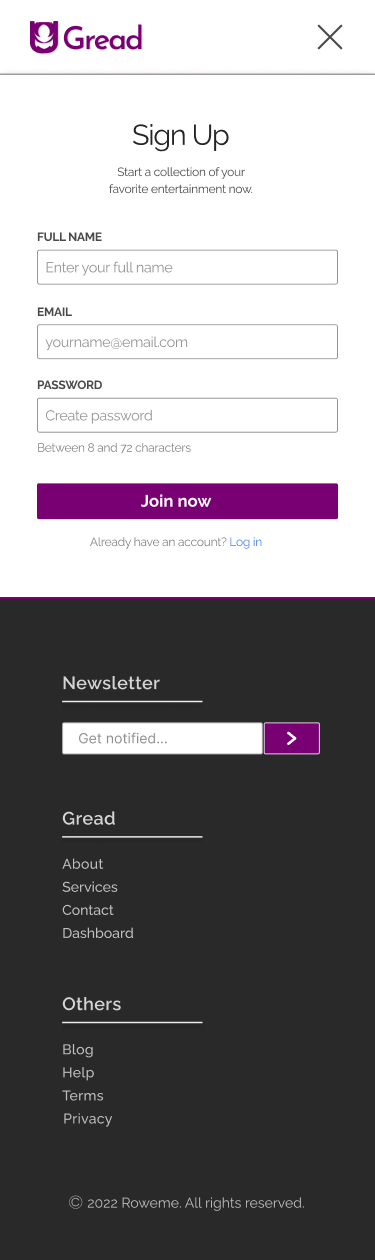
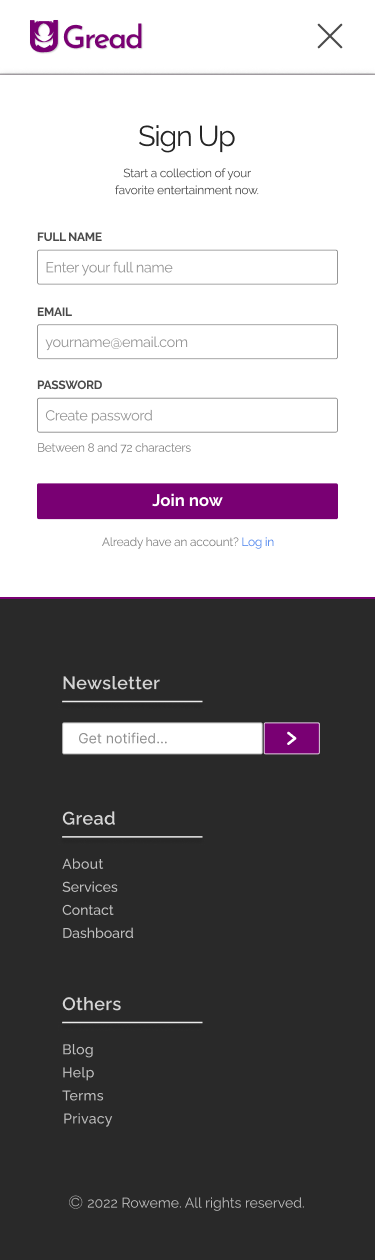
Mobile Sign up page rough UI

diff --git a/utilities/css/signup.css b/utilities/css/signup.css
@@ -1,0 +1,93 @@
+.main-container {
+    overflow-x: hidden;
+}
+/* Signup Form */
+.signup-container {
+    padding: 42px 35px 50px;
+}
+/* Text Box */
+.signup-text-box {
+    display: flex;
+    flex-direction: column;
+    align-items: center;
+    text-align: center;
+    margin-bottom: 18px;
+}
+.signup-heading {
+    font-size: 1.79rem;
+    font-weight: 400;
+    letter-spacing: -1.1px;
+    line-height: 135%;
+    margin-top: 0px;
+    margin-bottom: 8px;
+    color: #242424;
+}
+.signup-sub-heading {
+    width: 50%;
+    font-size: 0.75rem;
+    letter-spacing: -0.3px;
+    line-height: 140%;
+    padding: 1px 0px 2px;
+    margin-top: 0px;
+    color: var(--secondary);
+}
+/* Form */
+.form-container {
+    padding: 0px 2px;
+}
+.inpt-field-box {
+    display: flex;
+    flex-direction: column;
+    margin-bottom: 20px;
+}
+.inpt-label {
+    font-size: 0.75rem;
+    font-weight: 700;
+    letter-spacing: -0.3px;
+    text-transform: uppercase;
+    margin-bottom: 5.5px;
+    color: var(--secondary);
+}
+.inpt-field {
+    font-size: 0.895rem;
+    letter-spacing: -0.3px;
+    padding: 8px 7.5px 8.5px;
+    border: 0.8px solid #A3A3A3;
+    border-radius: 2.5px;
+    color: var(--secondary);
+}
+.pass-field {
+    margin-bottom: 7px;
+}
+.inpt-field::placeholder {
+    color: #A3A3A3;
+}
+.pass-length-info {
+    font-size: 0.75rem;
+    letter-spacing: -0.25px;
+    text-align: left;
+    margin-top: 0px;
+    margin-bottom: 10px;
+    color: #878787E6;
+}
+.join-btn {
+    width: 100%;
+    font-size: 1.045rem; 
+    font-weight: 600;
+    letter-spacing: 0.2px;
+    padding: 6px 0px 9px;
+    margin-top: 20px;
+    border: none;
+    border-radius: 2.5px;
+    color: #FFFFFF;
+    background-color: var(--primary);
+}
+.is-user {
+    font-size: 0.75rem;
+    font-weight: 400;
+    letter-spacing: -0.2px;
+    text-align: center;
+    margin-top: 15px;
+    margin-bottom: 0px;
+    color: #4a4a4ab3;
+}

diff --git a/utilities/css/media_query.css b/utilities/css/media_query.css
@@ -16,13 +16,21 @@ body {
     padding: 0;
     color: var(--secondary);
 }
-
+a {
+    text-decoration: none;
+    color: #2769E9;
+}
+a:hover {
+    text-decoration: underline;
+}
+@media all and (min-width: 300px) {
+    body {
+        position: relative;
+    }
+}
 @media all and (min-width: 425px) {
     :root {
         font-size: 16.5px;
-    }
-    body {
-        position: static;
     }
 }
 @media all and (min-width: 500px) {

diff --git a/signup.php b/signup.php
@@ -1,0 +1,65 @@
+<?php
+require_once "./utilities/php_snippets/header.php";
+require_once "./utilities/php_snippets/footer.php";
+session_start();
+
+?>
+<!DOCTYPE html>
+<html lang="en">
+
+<head>
+    <meta name="charset" content="utf-8">
+    <meta name="viewport" content="width=device-width, initial-scale=1.0">
+    <meta name="author" content="Roweme B. Santos">
+    <title>Sign up | Your library of entertainment</title>
+    <link rel="icon" href="./assets/logo/brand_logo.png">
+    <link rel="stylesheet" href="./utilities/css/component_style.css">
+    <link rel="stylesheet" href="./utilities/css/header.css">
+    <link rel="stylesheet" href="./utilities/css/footer.css">
+    <link rel="stylesheet" href="./utilities/css/media_query.css">
+    <link rel="stylesheet" href="./utilities/css/signup.css">
+    <link rel="preconnect" href="https://fonts.googleapis.com">
+    <link rel="preconnect" href="https://fonts.gstatic.com" crossorigin>
+    <link href="https://fonts.googleapis.com/css2?family=Raleway:wght@300;400;500;600;700&family=Roboto:wght@400;500&display=swap" rel="stylesheet">
+</head>
+
+<body>
+    <?php
+    // Header template
+    auth_header();
+    ?>
+    <main class="main-container">
+        <!-- Signup Form -->
+        <section class="signup-container">
+            <!-- Text Box -->
+            <div class="signup-text-box">
+                <h1 class="signup-heading">Sign Up</h1>
+                <p class="signup-sub-heading">Start a collection of your favorite entertainment now.</p>
+            </div>
+            <!-- Form -->
+            <form class="form-container" method="POST" enc>
+                <div class="inpt-field-box">
+                    <label class="inpt-label" for="full_name">Full Name</label>
+                    <input class="inpt-field" type="text" id="full_name" class="inpt_fname" name="usr_fname" required placeholder="Enter your full name">
+                </div>
+                <div class="inpt-field-box">
+                    <label class="inpt-label" for="email">Email</label>
+                    <input class="inpt-field" type="email" id="email" class="inpt_email" name="usr_email" required placeholder="yourname@email.com">
+                </div>
+                <div class="inpt-field-box pass-field">
+                    <label class="inpt-label" for="password">Password</label>
+                    <input class="inpt-field" type="password" id="password" class="inpt_password" required placeholder="Create password" minLength="8" maxLength="72">
+                </div>
+                <p class="pass-length-info">Between 8 and 72 characters</p>
+                <button class="join-btn" type="submit" name="join">Join now</button>
+            </form>
+            <p class="is-user">Already have an account? <a href="./login.php">Log in</a></p>
+        </section>
+    </main>
+    <?php
+    // Footer template
+    index_footer();
+    ?>
+</body>
+
+</html>

diff --git a/utilities/php_snippets/header.php b/utilities/php_snippets/header.php
@@ -108,10 +108,10 @@ function index_header($active_page = 'index')
             <!-- CTA -->
             <div class="header-cta-box">
               <div class="header-signup-box">
-                <a class="btn header-signup" href="./signup/signup.php">Sign up</a>
+                <a class="btn header-signup" href="./signup.php">Sign up</a>
               </div>
               <div class="header-login-box">
-                <a class="btn header-login" href="./login/login.php">Log in</a>
+                <a class="btn header-login" href="./login.php">Log in</a>
               </div>
             </div>
             <!-- Social Links -->
@@ -137,4 +137,27 @@ function index_header($active_page = 'index')
 function dashboard_header()
 {
   // Display this header template if logged in
+}
+
+function auth_header()
+{
+  // Header for logging and signup page
+  echo ('<header class="header-container">
+  <!-- Logo -->
+  <div class="logo-box">
+    <a href="./index.php">
+      <img class="logo" src="./assets/logo/logo512.png" alt="Gread Logo">
+    </a>
+  </div>
+  <!-- Navigation -->
+  <div class="navigation-box">
+    <!-- Close Menu -->
+    <a href="./index.php">
+      <svg class="auth-close-icon nav-icon" width="30" height="30" viewBox="0 0 30 30" fill="none" xmlns="http://www.w3.org/2000/svg">
+        <path d="M26.2499 26.2499L3.75 3.75" stroke="#4A4A4A" stroke-width="2" stroke-linecap="round" stroke-linejoin="round"/>
+        <path d="M26.2501 3.75L3.75 26.2501" stroke="#4A4A4A" stroke-width="2" stroke-linecap="round" stroke-linejoin="round"/>
+      </svg>
+    </a>
+  </div>
+  </header>');
 }

diff --git a/about.php b/about.php
@@ -22,6 +22,7 @@ session_start();
 
 <body>
     <?php
+    // Header
     // Check if user is logged in
     if (isset($_SESSION['user'])) {
         // call logged_header()
@@ -30,11 +31,14 @@ session_start();
     }
     ?>
     <main class="main-container">
+        <!-- About -->
         <section class="about-container">
+            <!-- Heading -->
             <div class="about-heading-box">
                 <h1 class="main-heading">About</h1>
                 <hr class="about-divider">
             </div>
+            <!-- About Content -->
             <div class="about-text-box">
                 <p class="about-text">
                     <span class="gread-word">Gread</span> is an online application that allows you to save all of your favorite entertainments information. You don't need to worry about remembering their basic information.

diff --git a/index.php b/index.php
@@ -40,7 +40,7 @@ session_start();
       <!-- CTA -->
       <div class="cta-box">
         <span class="get-started-box">
-          <a class="btn primary-btn" href="./signup/signup.php">Get Started</a>
+          <a class="btn primary-btn" href="./signup.php">Get Started</a>
           <svg class="cta-btn-icon" width="34" height="34" viewBox="0 0 34 34" fill="none" xmlns="http://www.w3.org/2000/svg">
             <path d="M21.9584 16.0084L14.025 7.93336C13.4584 7.3667 12.6084 7.3667 12.0417 7.93336C11.475 8.50003 11.475 9.35003 12.0417 9.9167L18.9834 16.8584L12.0417 23.8C11.7584 24.0834 11.6167 24.3667 11.6167 24.7917C11.6167 25.6417 12.1834 26.2084 13.0334 26.2084C13.4584 26.2084 13.7417 26.0667 14.025 25.7834L22.1 17.7084C22.525 17.425 22.525 16.575 21.9584 16.0084Z" fill="white" />
           </svg>
